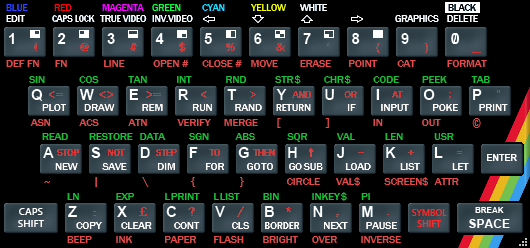
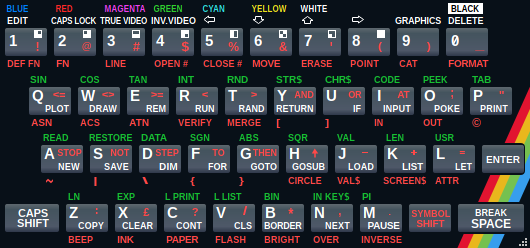
manual: the virtual keyboard's Skin, its own layout file, the picture retaken

diff --git a/docs/manual/input.md b/docs/manual/input.md
@@ -162,13 +162,19 @@ or a click here.
 Right-click beside the keys for a menu:
 
 - **Zoom x1**, **Zoom x1.5**, **Zoom x2**, **Zoom x3** - the size of the window. You can
-  also drag its edge; the picture keeps its shape.
+  also drag its edge; the picture keeps its shape and is drawn sharp at any size.
+- **Skin** - **Black** or **White** keyboard.
 - **Dock under the emulator** - the keyboard loses its frame and sits under the main window,
   as wide as the main window, and moves with it. In fullscreen, or when there is no room
   below, it lies over the bottom of the picture.
 - **Release all keys** - releases every key.
 
 Keys typed while the window is in front go to the machine. Esc closes the window.
+
+For layout authors: a file `zx-black.json` or `zx-white.json` in the `vkbd` folder of the
+settings folder (see [Where the settings are](getting-started.md#where-the-settings-are)) is
+drawn instead of the built-in skin of
+that name, and drawn again each time the file is saved.
 
 ## Joysticks
 
